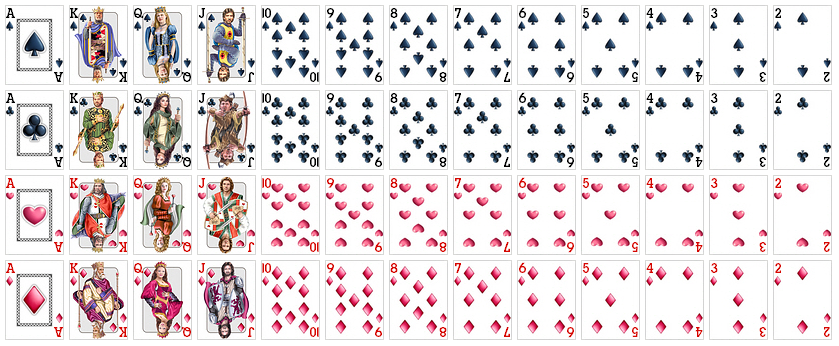
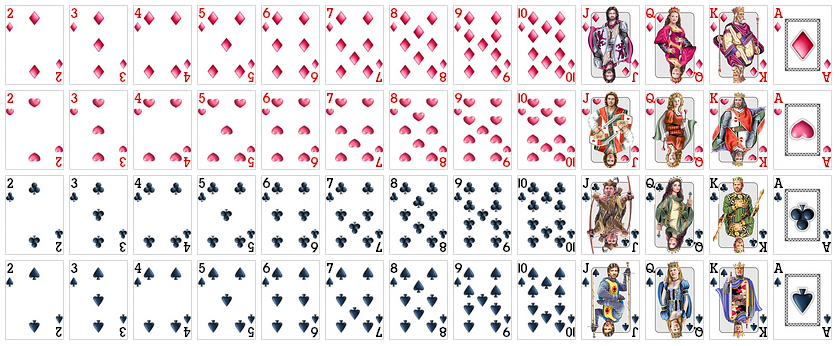
Cadt croped

diff --git a/Casino/MainWindow.xaml b/Casino/MainWindow.xaml
@@ -5,9 +5,9 @@
         Title="MainWindow" Height="450" Width="525">
     <Window.Resources>
         <DataTemplate x:Key="CartTemplate" DataType="local:Cart">
-            <StackPanel>
+            <StackPanel Margin="5,0">
                 <TextBlock Text="{Binding Score}" HorizontalAlignment="Center"/>
-                <Image Source="{Binding ImgeSourse}" Margin="5,0"></Image>
+                <Image Source="{Binding ImgeSourse}"/>
             </StackPanel>
         </DataTemplate>
     </Window.Resources>
@@ -24,16 +24,18 @@
         <!--
         <StackPanel x:Name="SPPlayer" Height="160" VerticalAlignment="Top" Margin="5,160,0,0" Orientation="Horizontal"/>
         -->
-        <ItemsControl x:Name="ICPlayer" Margin="10,0,10,45" BorderThickness="5" ItemTemplate="{DynamicResource CartTemplate}" Height="211" VerticalAlignment="Bottom" HorizontalContentAlignment="Stretch">
+        <ItemsControl x:Name="ICPlayer" Margin="10,164,10,45" BorderThickness="5" ItemTemplate="{DynamicResource CartTemplate}" HorizontalContentAlignment="Stretch" BorderBrush="#FFF30D0D">
             <ItemsControl.ItemsPanel>
                 <ItemsPanelTemplate>
-                    <StackPanel IsItemsHost="True" Orientation="Horizontal"/>
+                    <StackPanel IsItemsHost="True" Orientation="Horizontal">
+                    </StackPanel>
                 </ItemsPanelTemplate>
             </ItemsControl.ItemsPanel>
-
+     
         </ItemsControl>
         <Button Content="Start" Height="35" VerticalAlignment="Bottom" HorizontalAlignment="Left" Width="127" Margin="5,0,0,5" Click="StartGame" Grid.Row="2"/>
         <Button Content="Close" Height="35" VerticalAlignment="Bottom" HorizontalAlignment="Right" Width="116" Margin="0,0,5,5" Grid.Row="2"/>
         <Button Content="Еще" Height="35" VerticalAlignment="Bottom" HorizontalAlignment="Left" Width="127" Margin="137,0,0,5" Click="Button_Click" Grid.Row="2"/>
+
     </Grid>
 </Window>

diff --git a/Casino/GameObjects.cs b/Casino/GameObjects.cs
@@ -12,11 +12,19 @@ namespace Casino
     [Serializable]
     class Cart 
     {
-        /// <summary>Тип Карты Пика Крестик Чирва Бубна</summary>
-        public enum CartType { }
+        /// <summary>Масть Карты Пика Крестик Чирва Бубна</summary>
+        public enum CartType { Picas, Clovers, Hearts, Squares }
 
         /// <summary>Очки текущей Карты</summary>
-        public int Score{ get; set; }
+        public int Score
+        { 
+            get
+            { 
+                if (cartId == 12) return 11; //туз
+                if (cartId <= 8) return this.cartId + 2; //От 2-х до 10
+                else return this.cartId - 7; //Валет дама король
+            }
+        }
 
         /// <summary>Картинк текущей карты</summary>
         public System.Windows.Media.Imaging.CroppedBitmap ImgeSourse
@@ -24,14 +32,23 @@ namespace Casino
             get
             {
                 System.Windows.Media.Imaging.BitmapImage bi = new System.Windows.Media.Imaging.BitmapImage(new Uri("Card.PNG", UriKind.RelativeOrAbsolute));
-                System.Windows.Media.Imaging.CroppedBitmap cb = new System.Windows.Media.Imaging.CroppedBitmap(bi, new System.Windows.Int32Rect(5 + 64 * 0, 5, 59, 80));
+                System.Windows.Media.Imaging.CroppedBitmap cb = new System.Windows.Media.Imaging.CroppedBitmap(bi, new System.Windows.Int32Rect(5 + 64 * this.cartId, 5 + 85 * (int)this.ct, 59, 80));
 
                 return cb;
             }
         }
 
+        /// <summary>порядковый номер карты от 0 до 12(туз)</summary>
+        int cartId;
+        /// <summary>Масть</summary>
+        CartType ct;
+
         /// <summary>Конструктор</summary>
-        public Cart(int score) { this.Score = score; }
+        public Cart(int id,CartType type) 
+        { 
+            this.cartId = id;
+            this.ct = type;
+        }
 
         
     }

diff --git a/Casino/GameLogic.cs b/Casino/GameLogic.cs
@@ -33,12 +33,12 @@ namespace Casino
             //Инициализация колоды
             this.CartPool = new List<Cart>();
 
-            for (int i = 2; i <= 11; i++)
+            for (int i = 0; i <= 12; i++)
             {
-                this.CartPool.Add(new Cart(i));//4 масти от 2-х до 11
-                this.CartPool.Add(new Cart(i));
-                this.CartPool.Add(new Cart(i));
-                this.CartPool.Add(new Cart(i));
+                this.CartPool.Add(new Cart(i, Cart.CartType.Picas));//4 масти от 2-х до 11
+                this.CartPool.Add(new Cart(i, Cart.CartType.Clovers));
+                this.CartPool.Add(new Cart(i, Cart.CartType.Squares));
+                this.CartPool.Add(new Cart(i, Cart.CartType.Hearts));
             }
 
             //Выдадим по 2- стартовые карты всем игрокам

diff --git a/Casino/MainWindow.xaml.cs b/Casino/MainWindow.xaml.cs
@@ -28,7 +28,11 @@ namespace Casino
             //Binding bind = new Binding(); // Создаём привязку
             //bind.Path = new PropertyPath("human"); //Смя Свойства!!!!
             //bind.Source = this; // Источник данніх
-         
+            List<Button> lb = new List<Button>();
+            lb.Add(new Button());
+            lb.Add(new Button());
+
+            ICPlayer.ItemsSource= lb;
         }
         
         private void StartGame(object sender, RoutedEventArgs re)
